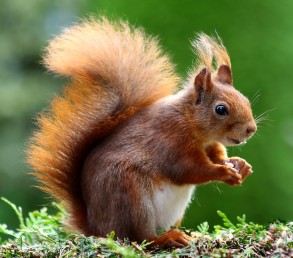
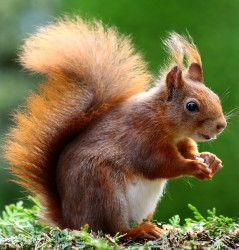
Improve button styles and made all images same size.

diff --git a/assets/css/style.css b/assets/css/style.css
@@ -40,8 +40,8 @@
     font-family: Quicksand, sans-serif;
     font-size: 20px;
     margin: 25px 0 25px 25px;
-    background-color: #0072A0;
-    border: 1px solid blue;
+    background-color: #bbbb;
+    border: 2px solid #0072A0;
     border-radius: 5px;
     padding: 5px 10px;
     color: black;

diff --git a/README.md b/README.md
@@ -1,108 +1,1 @@
-![CI logo](https://codeinstitute.s3.amazonaws.com/fullstack/ci_logo_small.png)
-
-Welcome Sara Candela,
-
-This is the Code Institute student template for Gitpod. We have preinstalled all of the tools you need to get started. It's perfectly ok to use this template as the basis for your project submissions.
-
-You can safely delete this README.md file, or change it for your own project. Please do read it at least once, though! It contains some important information about Gitpod and the extensions we use. Some of this information has been updated since the video content was created. The last update to this file was: **September 1, 2021**
-
-## Gitpod Reminders
-
-To run a frontend (HTML, CSS, Javascript only) application in Gitpod, in the terminal, type:
-
-`python3 -m http.server`
-
-A blue button should appear to click: _Make Public_,
-
-Another blue button should appear to click: _Open Browser_.
-
-To run a backend Python file, type `python3 app.py`, if your Python file is named `app.py` of course.
-
-A blue button should appear to click: _Make Public_,
-
-Another blue button should appear to click: _Open Browser_.
-
-In Gitpod you have superuser security privileges by default. Therefore you do not need to use the `sudo` (superuser do) command in the bash terminal in any of the lessons.
-
-To log into the Heroku toolbelt CLI:
-
-1. Log in to your Heroku account and go to *Account Settings* in the menu under your avatar.
-2. Scroll down to the *API Key* and click *Reveal*
-3. Copy the key
-4. In Gitpod, from the terminal, run `heroku_config`
-5. Paste in your API key when asked
-
-You can now use the `heroku` CLI program - try running `heroku apps` to confirm it works. This API key is unique and private to you so do not share it. If you accidentally make it public then you can create a new one with _Regenerate API Key_.
-
-------
-
-## Release History
-
-We continually tweak and adjust this template to help give you the best experience. Here is the version history:
-
-**September 1 2021:** Remove `PGHOSTADDR` environment variable.
-
-**July 19 2021:** Remove `font_fix` script now that the terminal font issue is fixed.
-
-**July 2 2021:** Remove extensions that are not available in Open VSX.
-
-**June 30 2021:** Combined the P4 and P5 templates into one file, added the uptime script. See the FAQ at the end of this file.
-
-**June 10 2021:** Added: `font_fix` script and alias to fix the Terminal font issue
-
-**May 10 2021:** Added `heroku_config` script to allow Heroku API key to be stored as an environment variable.
-
-**April 7 2021:** Upgraded the template for VS Code instead of Theia.
-
-**October 21 2020:** Versions of the HTMLHint, Prettier, Bootstrap4 CDN and Auto Close extensions updated. The Python extension needs to stay the same version for now.
-
-**October 08 2020:** Additional large Gitpod files (`core.mongo*` and `core.python*`) are now hidden in the Explorer, and have been added to the `.gitignore` by default.
-
-**September 22 2020:** Gitpod occasionally creates large `core.Microsoft` files. These are now hidden in the Explorer. A `.gitignore` file has been created to make sure these files will not be committed, along with other common files.
-
-**April 16 2020:** The template now automatically installs MySQL instead of relying on the Gitpod MySQL image. The message about a Python linter not being installed has been dealt with, and the set-up files are now hidden in the Gitpod file explorer.
-
-**April 13 2020:** Added the _Prettier_ code beautifier extension instead of the code formatter built-in to Gitpod.
-
-**February 2020:** The initialisation files now _do not_ auto-delete. They will remain in your project. You can safely ignore them. They just make sure that your workspace is configured correctly each time you open it. It will also prevent the Gitpod configuration popup from appearing.
-
-**December 2019:** Added Eventyret's Bootstrap 4 extension. Type `!bscdn` in a HTML file to add the Bootstrap boilerplate. Check out the <a href="https://github.com/Eventyret/vscode-bcdn" target="_blank">README.md file at the official repo</a> for more options.
-
-------
-
-## FAQ about the uptime script
-
-**Why have you added this script?**
-
-It will help us to calculate how many running workspaces there are at any one time, which greatly helps us with cost and capacity planning. It will help us decide on the future direction of our cloud-based IDE strategy.
-
-**How will this affect me?**
-
-For everyday usage of Gitpod, it doesn’t have any effect at all. The script only captures the following data:
-
-- An ID that is randomly generated each time the workspace is started.
-- The current date and time
-- The workspace status of “started” or “running”, which is sent every 5 minutes.
-
-It is not possible for us or anyone else to trace the random ID back to an individual, and no personal data is being captured. It will not slow down the workspace or affect your work.
-
-**So….?**
-
-We want to tell you this so that we are being completely transparent about the data we collect and what we do with it.
-
-**Can I opt out?**
-
-Yes, you can. Since no personally identifiable information is being captured, we'd appreciate it if you let the script run; however if you are unhappy with the idea, simply run the following commands from the terminal window after creating the workspace, and this will remove the uptime script:
-
-```
-pkill uptime.sh
-rm .vscode/uptime.sh
-```
-
-**Anything more?**
-
-Yes! We'd strongly encourage you to look at the source code of the `uptime.sh` file so that you know what it's doing. As future software developers, it will be great practice to see how these shell scripts work.
-
----
-
-Happy coding!
+images: pexels.com
